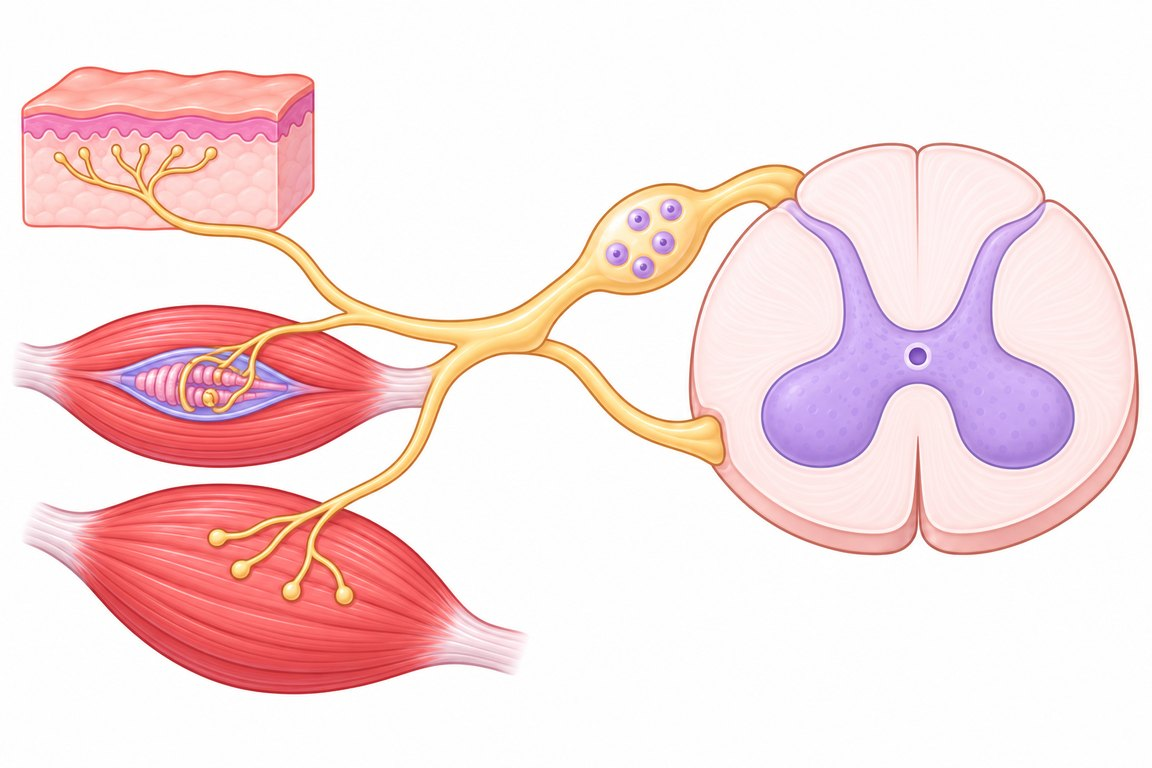
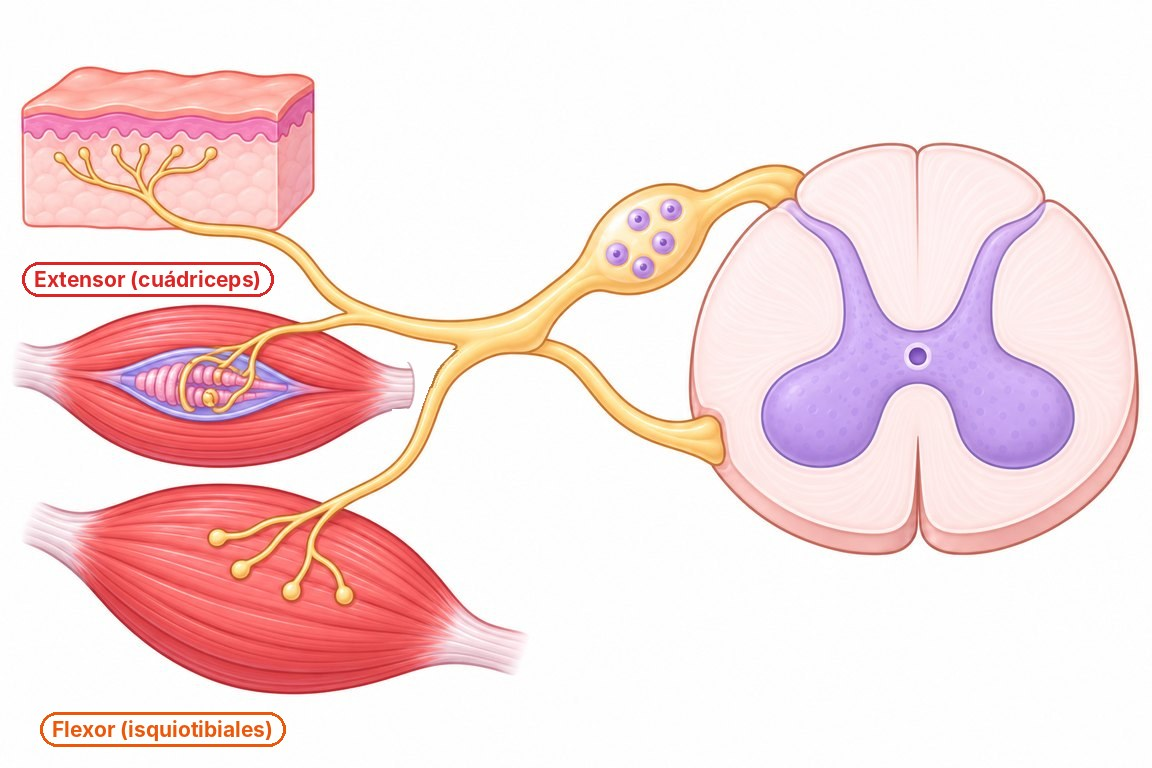
Circuito reflejo: músculos rotulados, tendón separado del nervio y todas las piezas del nivel II a la vez
Claude-Session: https://claude.ai/code/session_01JTycxSeBaYixUq8gRRmps4

Changed region(s): [[0.0312, 0.9062, 0.25, 1.0], [0.0, 0.3438, 0.25, 0.4062], [0.3438, 0.4375, 0.4062, 0.5312]]

diff --git a/docs/practico-4_reflejo-img.py b/docs/practico-4_reflejo-img.py
@@ -1,0 +1,114 @@
+"""Circuito reflejo: corrige el nervio que se unía al tendón del extensor y rotula los músculos.
+Uso: python3 docs/practico-4_reflejo-img.py <carpeta con los originales>
+(esquema-base.jpg, tablero-huecos.jpg, musculo-extensor.webp, musculo-flexor.webp sin editar).
+Las coordenadas son las de la imagen de 1152×768 (las zonas y trazos no cambian)."""
+import sys, pathlib
+from PIL import Image, ImageDraw, ImageFont
+
+SRC = pathlib.Path(sys.argv[1])
+IMG = pathlib.Path(__file__).resolve().parent.parent / 'img' / 'reflejo'
+FONT = ImageFont.truetype('/usr/share/fonts/opentype/inter/Inter-Bold.otf', 21)
+BG = (254, 254, 254)
+ROJO, NARANJO = (220, 38, 38), (234, 88, 12)
+
+def borde_nervio(y):          # contorno izquierdo del ramo que baja, junto al tendón
+    return 436.2 - 0.37 * (y - 370)
+
+CONT_N = (180, 118, 55)       # contorno del nervio
+CONT_T = (190, 137, 153)      # borde del tendón
+
+def mezcla(c, d, t):
+    return tuple(int(c[k] * (1 - t) + d[k] * t) for k in range(3))
+
+def cortar_tendon(px, ox=0, oy=0, fondo=BG, alfa=False, nervio=True):
+    """El tendón termina en un extremo redondeado (x ≈ 414) y queda fondo hasta el nervio."""
+    for y in range(352, 418):
+        q = (y - 385) / 24
+        cap = 406 + 8 * (1 - q * q) ** .5 if abs(q) < 1 else 0
+        xo = borde_nervio(y)
+        for x in range(392, int(xo) + 2):
+            X, Y = x - ox, y - oy
+            if not (0 <= X < W_ and 0 <= Y < H_): continue
+            c = px[X, Y]
+            if x >= xo - 1 or (nervio and y < 386 and x > 418): continue
+            dd = x - cap                                             # >0 fuera del extremo
+            if dd < -2: continue
+            if dd < 0:
+                if alfa: continue
+                px[X, Y] = mezcla(c, CONT_T, .55 if dd > -1.5 else .25)
+            else:
+                if alfa:
+                    px[X, Y] = c[:3] + (0,)
+                else:
+                    px[X, Y] = mezcla(CONT_T, fondo, min(1, .45 + dd / 2)) if dd < 1.2 else fondo
+
+
+CURVA = [(457, 350), (450, 356), (443, 363), (438, 370), (434.5, 377), (432.5, 383), (431, 387)]
+
+def dist_seg(p, a, b):
+    ax, ay = a; bx, by = b; px_, py_ = p
+    dx, dy = bx - ax, by - ay
+    t = max(0, min(1, ((px_ - ax) * dx + (py_ - ay) * dy) / (dx * dx + dy * dy)))
+    return ((px_ - ax - t * dx) ** 2 + (py_ - ay - t * dy) ** 2) ** .5, ax + t * dx
+
+def contorno_nervio(px):
+    """Redibuja el borde del ramo que baja donde antes se unía el tendón."""
+    for y in range(348, 388):
+        for x in range(418, 462):
+            c = px[x, y]
+            d, xm = min(dist_seg((x, y), CURVA[i], CURVA[i + 1]) for i in range(len(CURVA) - 1))
+            # ¿a qué lado de la curva? (x de la curva en esta fila)
+            xc = next((CURVA[i][0] + (y - CURVA[i][1]) * (CURVA[i + 1][0] - CURVA[i][0]) / (CURVA[i + 1][1] - CURVA[i][1])
+                       for i in range(len(CURVA) - 1) if CURVA[i][1] <= y <= CURVA[i + 1][1]), None)
+            if xc is None: continue
+            if d < 1.4:
+                px[x, y] = mezcla(c, CONT_N, 1 if d < .7 else .6)
+            elif x < xc:
+                if y < 386: px[x, y] = BG
+            elif d < 4 and not (c[0] > 235 and c[1] > 190 and c[2] < 170):
+                px[x, y] = (251, 210, 140)
+
+def rotulo(img, xy, txt, color):
+    d = ImageDraw.Draw(img)
+    x, y = xy
+    w = d.textlength(txt, font=FONT)
+    d.rounded_rectangle([x, y, x + w + 24, y + 34], radius=17, fill=(255, 255, 255), outline=color, width=3)
+    d.text((x + 12, y + 17), txt, font=FONT, fill=color, anchor='lm')
+
+# Esquema base (niveles III-V)
+im = Image.open(SRC / 'esquema-base.jpg').convert('RGB')
+W_, H_ = im.size
+cortar_tendon(im.load())
+contorno_nervio(im.load())
+rotulo(im, (22, 262), 'Extensor (cuádriceps)', ROJO)
+rotulo(im, (40, 712), 'Flexor (isquiotibiales)', NARANJO)
+im.save(IMG / 'esquema-base.jpg', quality=88)
+
+# Tablero con huecos (nivel II): el hueco del extensor termina antes del nervio
+im = Image.open(SRC / 'tablero-huecos.jpg').convert('RGB')
+px = im.load()
+for y in range(356, 414):
+    for x in range(410, 437):
+        r, g, b = px[x, y]
+        if x < borde_nervio(y) + 1 and (b > r + 3 or abs(r - g) > 12):   # lila del hueco o trazo punteado
+            px[x, y] = BG
+d = ImageDraw.Draw(im)
+DASH = (124, 92, 230)
+import math
+pts = [(408 + 8 * math.sin(math.pi * k / 20), 362 + 46 * k / 20) for k in range(21)]
+d.polygon([(400, 362)] + pts + [(400, 408)], fill=(246, 243, 252))
+for k in range(0, 20, 3):
+    d.line(pts[k:k + 2], fill=DASH, width=3)
+im.save(IMG / 'tablero-huecos.jpg', quality=88)
+
+# Pieza del extensor: sin el extremo del tendón y con su rótulo (aparece al encajarla)
+caja = (round(0.0117 * 1152), round(0.3955 * 768))
+pz = Image.open(SRC / 'musculo-extensor.webp').convert('RGBA')
+W_, H_ = pz.size
+cortar_tendon(pz.load(), *caja, alfa=True, nervio=False)
+rotulo(pz, (28, 66), 'Extensor', ROJO)
+pz.save(IMG / 'piezas' / 'musculo-extensor.webp', quality=90)
+
+pz = Image.open(SRC / 'musculo-flexor.webp').convert('RGBA')
+rotulo(pz, (120, 120), 'Flexor', NARANJO)
+pz.save(IMG / 'piezas' / 'musculo-flexor.webp', quality=90)

diff --git a/docs/practico-4_build.py b/docs/practico-4_build.py
@@ -77,3 +77,20 @@ N['guia_pie'] = "Imágenes: Lanfear's Bane (CC BY-SA 3.0); Lucien Monfils (CC BY
 nuevo = json.dumps(d, ensure_ascii=False).replace("'", "''")
 SEED.write_text(txt[:ini] + nuevo + txt[fin:], encoding='utf-8')
 print('casos:', [c['clave'] for c in N['casos']])
+
+# Circuito reflejo (actividad 9), nivel II: todas las piezas a la vez (sin grupos)
+txt = SEED.read_text(encoding='utf-8')
+ini = txt.index("  (9, 'tareas', '") + len("  (9, 'tareas', '")
+fin = txt.index("}'", ini) + 1
+d = json.loads(txt[ini:fin].replace("''", "'"))
+n2 = d['niveles'][1]
+n2.pop('grupos', None)
+for p in n2['piezas']:
+    p.pop('grupo', None)
+n2['instrucciones'] = ("La médula ya está. Completa los huecos punteados: toca un hueco y elige su pieza, o arrastra la pieza "
+    "a cualquier parte de su hueco. Las piezas están en cualquier orden: fíjate qué trae la información (lado <strong>sensitivo</strong>) "
+    "y qué la lleva al músculo (lado <strong>motor</strong>). <strong>Verde</strong>: correcto. <strong>Rojo</strong>: por repasar. "
+    "<strong>Naranjo</strong>: lo que estás haciendo.")
+nuevo = json.dumps(d, ensure_ascii=False, separators=(',', ':')).replace("'", "''")
+SEED.write_text(txt[:ini] + nuevo + txt[fin:], encoding='utf-8')
+print('circuito nivel II: sin grupos')
